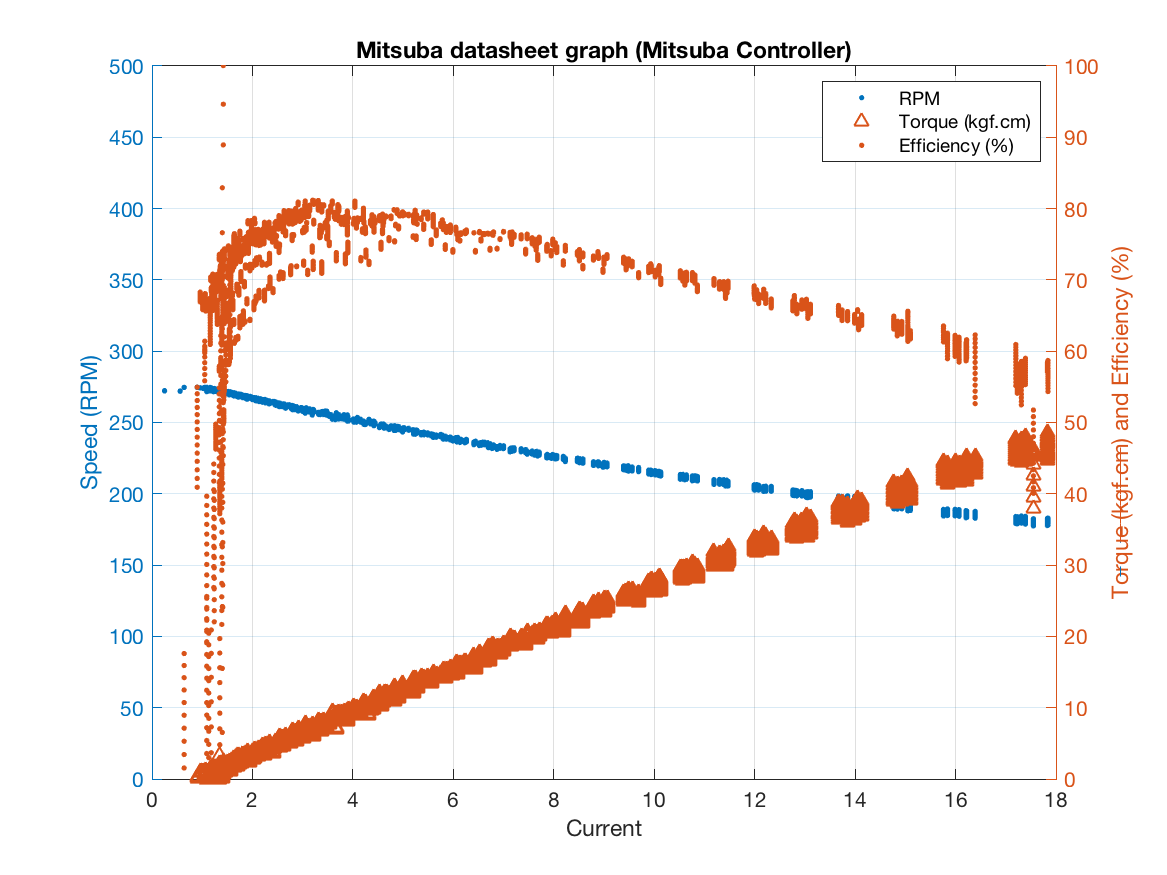
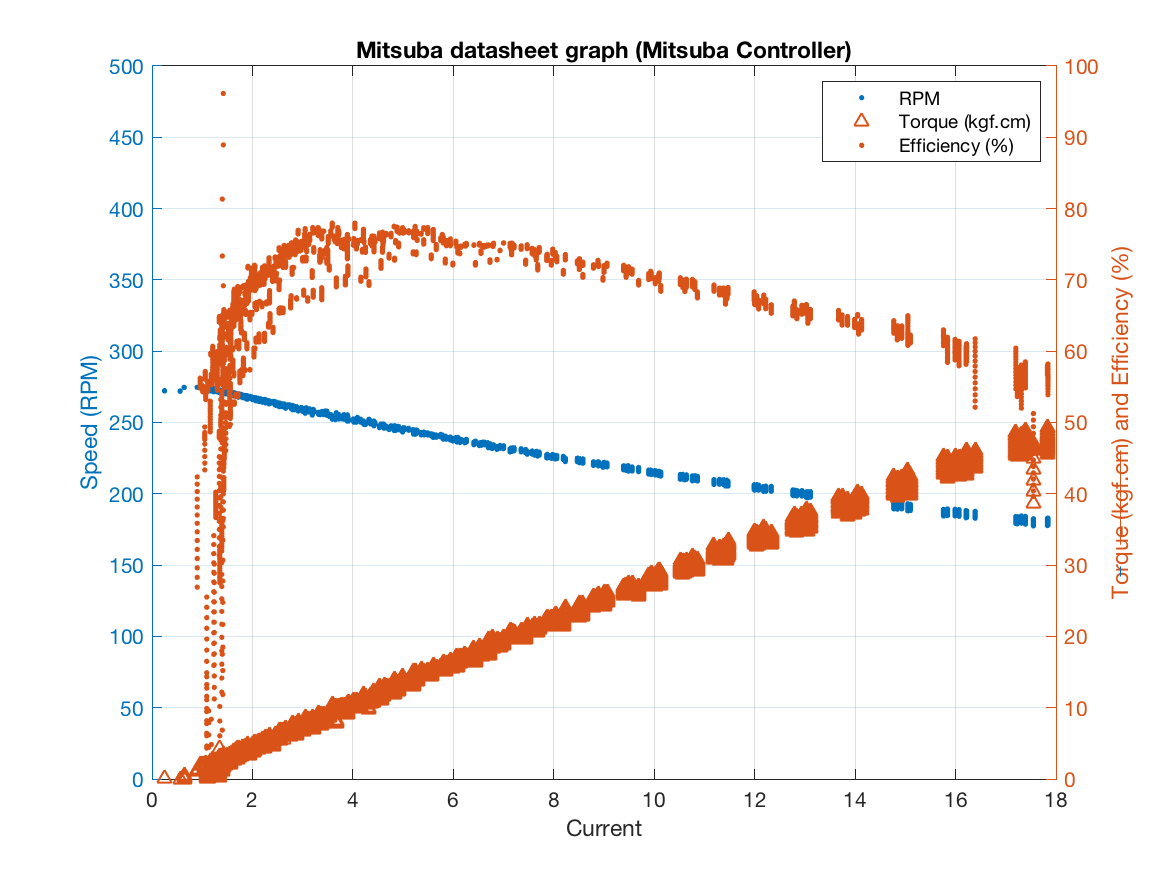
some minor analysis from May27 and prep for May28

Changed region(s): [[0.1234, 0.216, 0.8946, 0.8949], [0.8021, 0.3703, 0.8638, 0.4629]]

diff --git a/DynoData/MITSUBA/12V_may27/analyzeAll.m b/DynoData/MITSUBA/12V_may27/analyzeAll.m
@@ -11,7 +11,7 @@ filesStruct = dir('*.txt');
 legendShow = 'on';
 for i = 1:numel(filesStruct)
     filename = filesStruct(i).name;
-    if (~contains(filename,'stock_'))
+    if (~contains(filename,'hall'))
         continue
     end
     filePath = strcat(filesStruct(i).folder, '/', filename);
@@ -20,6 +20,8 @@ for i = 1:numel(filesStruct)
     data = data(data(:,2)>.1,:); % current > .1
     data = data(50:end,:);
     
+    throttle = data(:, 5);
+    time = data(:, 6) ./ 1000;
     voltage = data(:, 1);
     current = data(:, 2);
     rpm_fly = data(:, 4);
@@ -28,32 +30,30 @@ for i = 1:numel(filesStruct)
            rpm_fly(i+1) = rpm_fly(i);
        end
     end
-%     glitches = find(abs(diff(rpm_fly))>5);
-%     for glitch = glitches'
-%         rpm_fly(glitch+1) = rpm_fly(glitch);
-%     end
+    glitches = find(abs(diff(rpm_fly))>5);
+    for glitch = glitches'
+        rpm_fly(glitch+1) = rpm_fly(glitch);
+    end
     rpm_fly = 1./smooth(1./rpm_fly, 54);
     rpm_fly = circshift(rpm_fly, -27);
     rpm_fly(end-27:end) = rpm_fly(end-28);
 
-    rpm_fly = smooth(rpm_fly, 21);
+    rpm_fly = smooth(time, rpm_fly, 1001, 'sgolay', 5);
     rpm_motor = rpm_fly * 54/72;
 
     omega_fly = rpm_fly * 2 * pi / 60;
-    throttle = data(:, 5);
-    time = data(:, 6) ./ 1000;
 
     ePower = voltage .* current;
     ePower = smooth(ePower, 50, 'sgolay');
 
     accel = gradient(omega_fly)./gradient(time);
 
-    accel = smooth(accel, 41);
+    accel = smooth(time, accel, 401, 'sgolay');
 
-    accelComp = accel;
+    accelComp = accel - polyval(PARASITIC_LOSSES_ACC_OF_FLYWHEEL_RPS, omega_fly);
 
     torque = ROT_INERTIA .* accelComp;
-    mPower = torque .* omega_fly - polyval(PARASITIC_LOSSES_POWER_OF_FLYWHEEL_RPM, rpm_fly);
+    mPower = torque .* omega_fly;
     eff = mPower ./ ePower;
     eff = smooth(eff, 101, 'sgolay');
     

diff --git a/DynoData/MITSUBA/12V_may27/dynoParse.m b/DynoData/MITSUBA/12V_may27/dynoParse.m
@@ -3,7 +3,7 @@ clear; clc; % close all;
 ROT_INERTIA = 0.8489;
 
 load ../spindown/spindown_noRotor_may27_before % PARASITIC LOSSES
-data = importdata('./stock_hallBack_0.txt');
+data = importdata('./stock_hallForward_1.txt');
 
 data = data(data(:,2)>.1,:); % current > .1
 data = data(50:end,:);
@@ -27,7 +27,7 @@ rpm = 1./smooth(time,1./rpm, 54);
 rpm = circshift(rpm, -27);
 rpm(end-27:end) = rpm(end-28);
 
-rpm = smooth(time,rpm, 21, 'sgolay');
+rpm = smooth(time,rpm, 1001, 'sgolay', 5);
 
 omega = rpm * 2 * pi / 60;
 rpm_motor = rpm * 54/72;
@@ -38,7 +38,7 @@ ePower = smooth(time,ePower, 150, 'sgolay');
 
 accel = gradient(omega)./gradient(time);
 
-accel = smooth(time,accel, 41, 'sgolay');
+accel = smooth(time,accel, 401, 'sgolay');
 
 accelComp = accel - polyval(PARASITIC_LOSSES_ACC_OF_FLYWHEEL_RPS, omega);
 

diff --git a/DynoData/MITSUBA/12V_Stock/analyzeAll.m b/DynoData/MITSUBA/12V_Stock/analyzeAll.m
@@ -4,7 +4,7 @@ figure(1);clf;figure(2);clf;figure(3);clf;figure(4);clf;figure(5);clf;
 ACCEL_WINDOW = 1;
 ROT_INERTIA = 0.8489;
 
-load ../spindown_noRotor
+load ../spindown/spindown_noRotor_5
 
 filesStruct = dir('*.txt');
 
@@ -48,10 +48,10 @@ for i = 1:numel(filesStruct)
 
     accel = smooth(accel, 41);
 
-    accelComp = accel;
+    accelComp = accel - polyval(PARASITIC_LOSSES_ACC_OF_FLYWHEEL_RPS, omega_fly);
 
     torque = ROT_INERTIA .* accelComp;
-    mPower = torque .* omega_fly - polyval(PARASITIC_LOSSES_POWER_OF_FLYWHEEL_RPM, rpm_fly);
+    mPower = torque .* omega_fly; % - polyval(PARASITIC_LOSSES_POWER_OF_FLYWHEEL_RPM, rpm_fly);
     eff = mPower ./ ePower;
     eff = smooth(eff, 101, 'sgolay');
     
